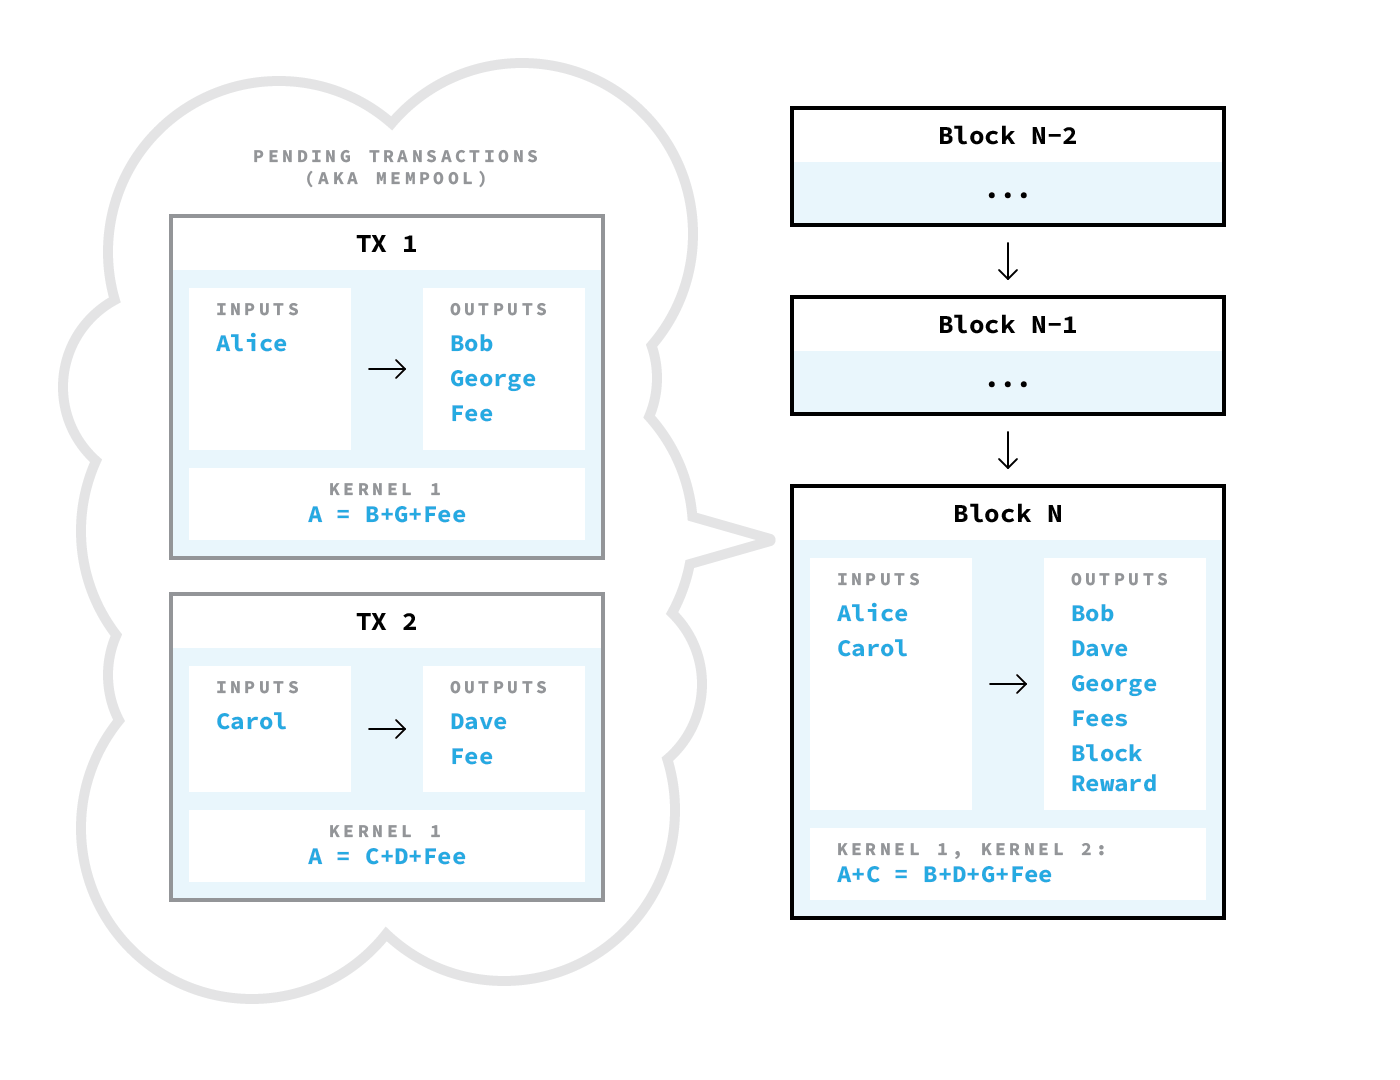
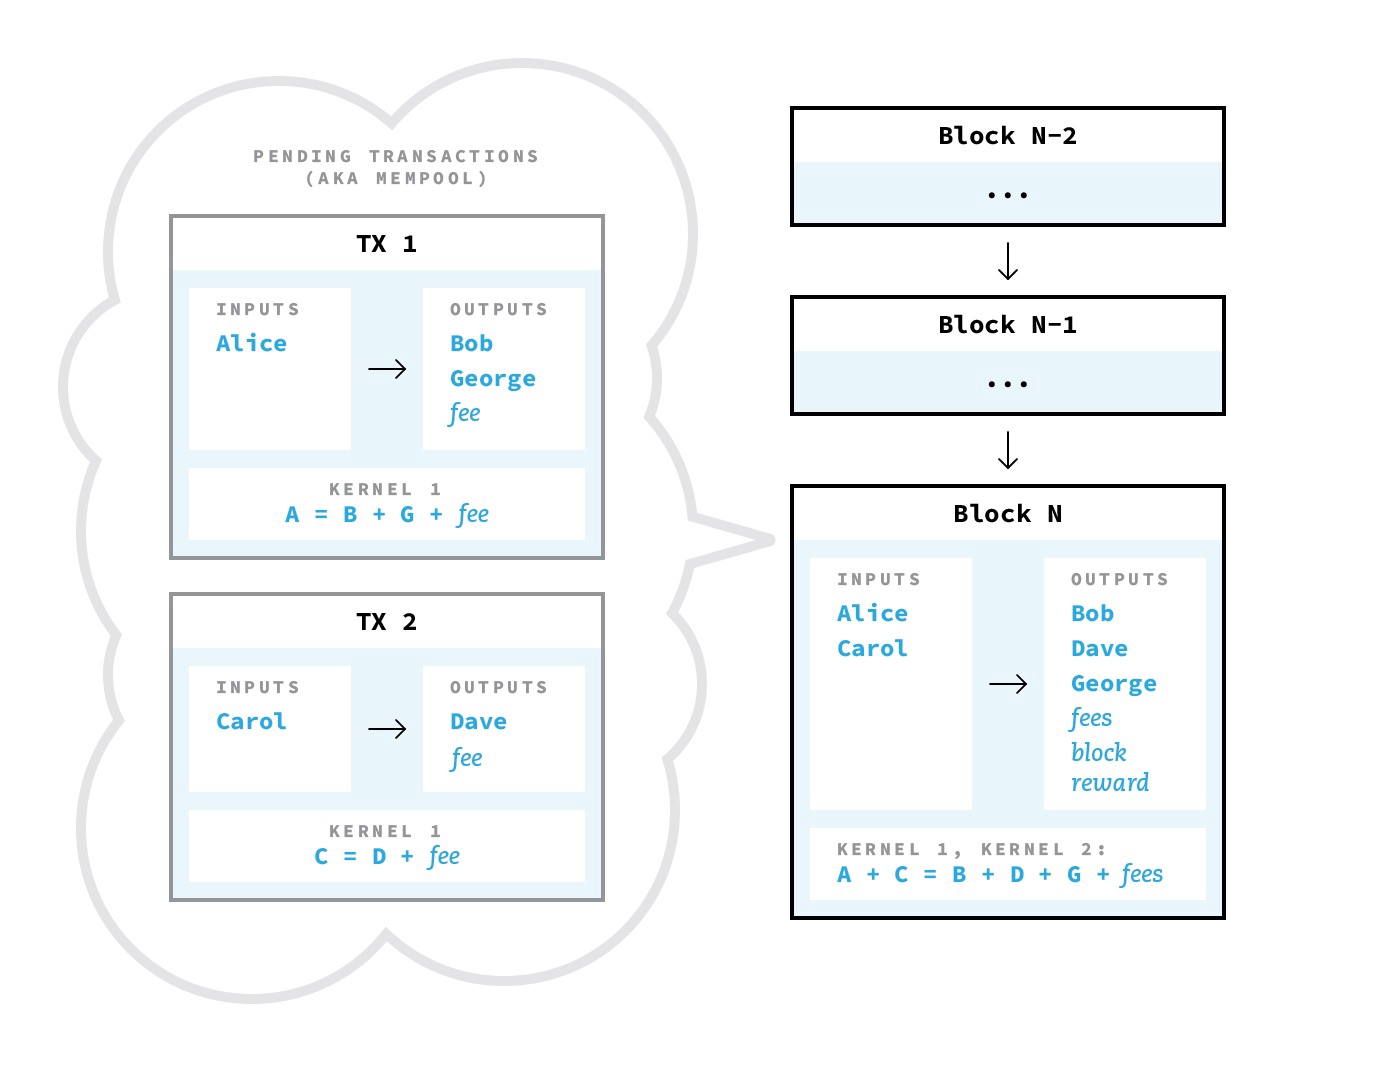
New images, some edits

diff --git a/README.md b/README.md
@@ -75,7 +75,7 @@ Grin further modifies this protocol to a version they call "patient Dandelion", 
 the sender's IP address, but also holds transactions in "stem" phase for some time (~10 per each hop on the stem path).
 This gives transactions a chance to aggregate with other transactions before they are broadcast widely.
 
-![](images/stem-fluff.png)
+![](images/stem-fluff.gif)
 *How transactions propagate with Dandelion. Stem phase (maximizing anonymity) followed by fluff phase (maximizing spread)*
 
 The attack uncovers the transaction graph in Grin and does not attempt to uncover the IP addresses.
@@ -122,7 +122,8 @@ As an alternative to the complex business of maintaining a supernode, an attacke
 with regular nodes: if an attacker controls a large percentage of all nodes in the network, the probability that
 every transaction passes one of their sniffer nodes approaches 100%.
 
-**`<Dandelion with a sniffer supernode GIF>`**
+![](images/supernode.gif)
+*A supernode is connected to every other node and will instantly get any transaction that enters fluff phase, before it can be merged with other transactions for anonymity.*
 
 ### Methodology and results
 
@@ -155,7 +156,7 @@ Or, if you used Grin between May 10 and 15, you may be able to find yourself in 
 
 Getting privacy right is extremely hard, as this research demonstrates.
 Even a single flaw in a protocol design can lead to almost the entire transaction graph being reconstructed.
-Luckily the Grin core devs were aware [LINK] that such an attack was theoretically possible, even if the extent
+Luckily the Grin core devs were [aware](https://github.com/mimblewimble/grin/blob/master/doc/grin4bitcoiners.md#if-i-listen-to-transaction-relay-cant-i-just-figure-out-who-they-belong-to-before-being-cut-through) that such an attack was theoretically possible, even if the extent
 and possible solutions were unclear. Mohamed Fouda hypothesized a similar attack in his excellent Grin
 [overview](https://www.tokendaily.co/blog/mimblewimble-the-good-and-the-bad).
 In practice, this attack downgrades Grin's privacy to that of Bitcoin with mandatory address reuse and hidden
@@ -177,7 +178,7 @@ When defending against this attack, Grin can lower the 96% traceability rate by 
 the Dandelion patience timer. In other words, more privacy could come at the expense of paying more in wasted time.
 For a more thorough discussion on mitigations, check out the FAQ right below.
 
-*Thanks to [Haseeb Qureshi](http://haseebq.com/) for major help in putting together this write-up, to [Oleg Ostroumov](https://medium.com/@olegostroumov), [Elena Nadolinksi](https://www.beanstalk.network/), [Mohamed Fouda](https://medium.com/@fouda) and [Nader Al-Naji](http://www.nadertheory.com/) for reviewing drafts of this post, and [Jake Stutzman](https://twitter.com/jstutzman) ([NEAR](https://nearprotocol.com/)) for preparing the animations.*
+*Thanks to [Haseeb Qureshi](http://haseebq.com/) for major help in putting together this write-up and for the anonymity set illustrations. Additional thanks to [Oleg Ostroumov](https://medium.com/@olegostroumov), [Elena Nadolinksi](https://www.beanstalk.network/), [Mohamed Fouda](https://medium.com/@fouda) and [Nader Al-Naji](http://www.nadertheory.com/) for reviewing drafts of this post. And a huge thanks to [Jake Stutzman](https://twitter.com/jstutzman) ([NEAR](https://nearprotocol.com/)) for the Dandelion and block aggregation illustrations.*
 
 *For more of my writing, follow me on Twitter at https://twitter.com/IvanBogatyy.*
 
@@ -208,7 +209,7 @@ Futher, even for a single patient user, this strategy is unlikely to work becaus
 
 #### Can this be mitigated by increasing the Dandelion patience timer?
 
-Not really. As explained above, the 4% of transactions we could not trace are indeed caused by Dandelion. If Grin were to increase the Dandelion patience timer, that 4% number could plausibly be higher. On the other hand, either running more spynodes or turning them into supernodes (by connecting to more peers) would lead to many more transactions linked, plausibly 99% or more.
+Not really. As explained above, the 4% of transactions we could not trace are indeed caused by Dandelion. If Grin were to increase the Dandelion patience timer, that 4% number could plausibly be higher. On the other hand, either running more sniffer nodes or turning them into supernodes (by connecting to more peers) would lead to many more transactions linked, plausibly 99% or more.
 
 #### Can this be mitigated by producing a lot of fake tiny transactions?
 
